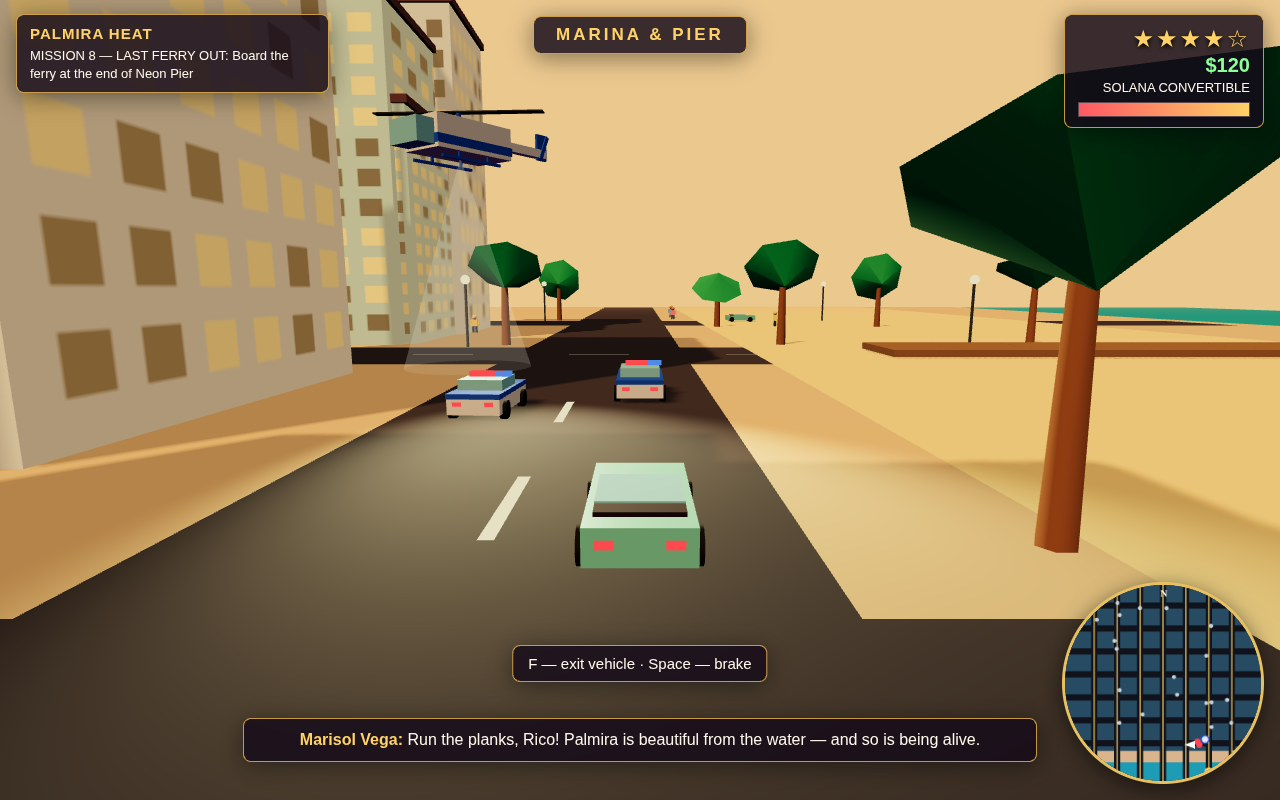
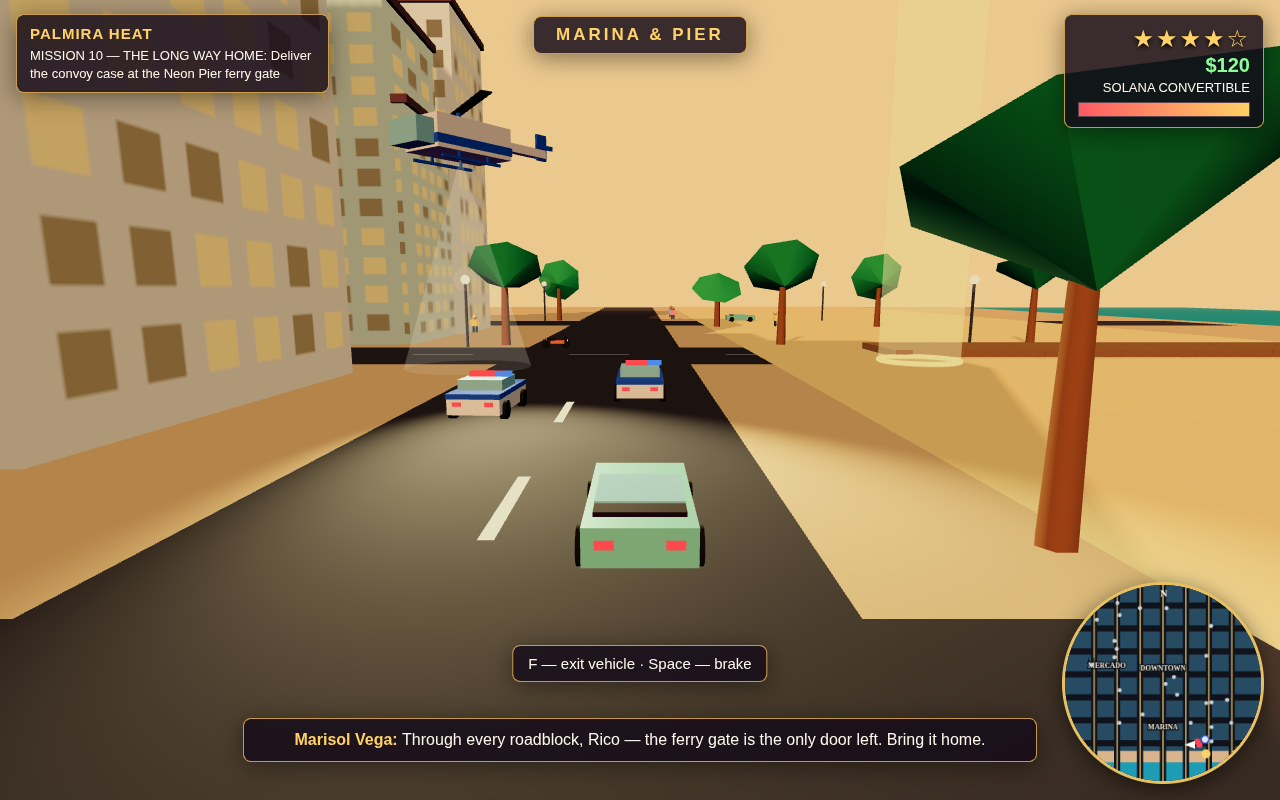
Palmira Heat v3: 10-mission story (chapter two), Vela Moto motorbike, minimap district labels, golden-hour lamp glow, live race screenshot

diff --git a/game/src/shots.js b/game/src/shots.js
@@ -1,9 +1,9 @@
-// Deterministic screenshot scenes (?shot=cover|foot|mission|coast): the game's own code stages
-// real gameplay states — a five-star chase under the helicopter, a Mercado crowd, the ferry
-// finale and a coastal drive across the enlarged city.
+// Deterministic screenshot scenes (?shot=cover|foot|mission|race): the game's own code stages
+// real gameplay states — a five-star chase under the helicopter, a Mercado crowd, the chapter-two
+// convoy finale and a live Marina Loop race moment.
 import { districtAt } from './city.js';
 
-export const SHOT_NAMES = ['cover', 'foot', 'mission', 'coast'];
+export const SHOT_NAMES = ['cover', 'foot', 'mission', 'race'];
 
 export function readShotName(search = window.location.search) {
   const name = new URLSearchParams(search).get('shot');
@@ -39,6 +39,8 @@ export function stageShotScene(name, game) {
     const trafficAhead = game.vehicles.filter((vehicle) => vehicle.mode === 'traffic');
     if (trafficAhead[0]) { trafficAhead[0].position.set(44.9, 0, 6); trafficAhead[0].yaw = 0; trafficAhead[0].updateTransform(); }
     if (trafficAhead[1]) { trafficAhead[1].position.set(51.1, 0, 44); trafficAhead[1].yaw = Math.PI; trafficAhead[1].updateTransform(); }
+    const kerbBike = game.vehicles.find((vehicle) => vehicle.type.bike);
+    if (kerbBike) { kerbBike.position.set(42.8, 0, -8); kerbBike.yaw = 0; kerbBike.updateTransform(); }
     game.hud.showDialogue('Marisol Vega', 'Vince put a price on you, Rico. The last ferry leaves from Neon Pier — MOVE.');
     pinDistrictBanner(game, car.position.x, car.position.z);
     game.hud.freezeOverlays();
@@ -58,6 +60,8 @@ export function stageShotScene(name, game) {
     if (parkedCars[0]) { parkedCars[0].position.set(-101.5, 0, -30); parkedCars[0].yaw = 0; parkedCars[0].updateTransform(); }
     if (parkedCars[1]) { parkedCars[1].position.set(-80, 0, -42.6); parkedCars[1].yaw = Math.PI / 2; parkedCars[1].updateTransform(); }
     if (parkedCars[2]) { parkedCars[2].position.set(-89.5, 0, -14); parkedCars[2].yaw = 0; parkedCars[2].updateTransform(); }
+    const kerbBike = game.vehicles.find((vehicle) => vehicle.type.bike);
+    if (kerbBike) { kerbBike.position.set(-90.8, 0, -26); kerbBike.yaw = 0; kerbBike.updateTransform(); }
     pinDistrictBanner(game, player.position.x, player.position.z);
     game.hud.freezeOverlays();
     return { follow: 'foot', height: 3.4, back: 9.5 };
@@ -66,23 +70,25 @@ export function stageShotScene(name, game) {
     const car = game.vehicles.find((vehicle) => vehicle.type.kind.includes('Convertible')) || game.vehicles[0];
     game.enterVehicle(car, true);
     car.position.set(58, 0, 147.1); car.yaw = Math.PI / 2; car.speed = 14; car.updateTransform();
-    wanted.setStars(4, 'Ferry run');
-    game.missions.missionIndex = 7; game.missions.stepIndex = 1; game.missions.active = true; game.missions.refreshBeacon();
+    wanted.setStars(4, 'Convoy run');
+    game.missions.missionIndex = 9; game.missions.stepIndex = 2; game.missions.active = true; game.missions.refreshBeacon();
     stageCruisers(game, [[76, 147.1, Math.PI / 2], [72, 140.9, Math.PI / 2 - 0.06]]);
     game.airUnit.stageAt(88, 14, 136, -2.2);
-    game.hud.showDialogue('Marisol Vega', 'Run the planks, Rico! Palmira is beautiful from the water — and so is being alive.');
+    game.hud.showDialogue('Marisol Vega', 'Through every roadblock, Rico — the ferry gate is the only door left. Bring it home.');
     pinDistrictBanner(game, car.position.x, car.position.z);
     game.hud.freezeOverlays();
     return { follow: 'car', height: 5, back: 13 };
   }
-  const taxi = game.vehicles.find((vehicle) => vehicle.type.kind.includes('Taxi')) || game.vehicles[1];
-  game.enterVehicle(taxi, true);
-  taxi.position.set(134, 0, 140.9); taxi.yaw = -Math.PI / 2; taxi.speed = 10; taxi.updateTransform();
-  game.missions.missionIndex = 2; game.missions.stepIndex = 1; game.missions.active = true; game.missions.refreshBeacon();
-  const ahead = game.vehicles.find((vehicle) => vehicle.mode === 'traffic' && vehicle !== taxi);
-  if (ahead) { ahead.position.set(98, 0, 147.1); ahead.yaw = -Math.PI / 2; ahead.updateTransform(); }
-  game.hud.showDialogue('Tessa Bloom', 'Coast road at golden hour, Rico. Palmira is showing off again.');
-  pinDistrictBanner(game, taxi.position.x, taxi.position.z);
+  // 'race': a live Marina Loop moment — checkpoint 3 of 8 ahead, timer running, beacon lit.
+  const car = game.vehicles.find((vehicle) => vehicle.type.kind.includes('Coupe')) || game.vehicles[0];
+  game.enterVehicle(car, true);
+  car.position.set(51.1, 0, -56); car.yaw = Math.PI; car.speed = 17; car.updateTransform();
+  game.missions.missionIndex = 6; game.missions.stepIndex = 1; game.missions.active = true; game.missions.refreshBeacon();
+  game.races.stageRace(2, 47.3);
+  const ahead = game.vehicles.find((vehicle) => vehicle.mode === 'traffic' && vehicle !== car);
+  if (ahead) { ahead.position.set(44.9, 0, -80); ahead.yaw = Math.PI; ahead.updateTransform(); }
+  game.hud.showDialogue('Tessa Bloom', 'GO! Chase the cyan, Rico — the loop does not wait.');
+  pinDistrictBanner(game, car.position.x, car.position.z);
   game.hud.freezeOverlays();
-  return { follow: 'car', height: 5.5, back: 13, side: 2.5 };
+  return { follow: 'car', height: 5.5, back: 14 };
 }

diff --git a/game/src/vehicles.js b/game/src/vehicles.js
@@ -1,8 +1,9 @@
-// Vehicle factory and arcade car physics: sedans, taxis, trucks, coupes and police interceptors.
+// Vehicle factory and arcade car physics: sedans, taxis, trucks, coupes, police interceptors and the Vela Moto bike.
 import * as THREE from 'three';
-import { CAR_TYPES, LIMITS, PALETTE } from './config.js';
+import { BIKE_TYPE, CAR_TYPES, LIMITS, PALETTE } from './config.js';
 import { clamp } from './utils.js';
 import { resolveBuildingCollisions } from './city.js';
+import { createPersonMesh } from './pedestrians.js';
 
 const bodyGeometry = new THREE.BoxGeometry(2.05, 0.72, 4.35);
 const cabinGeometry = new THREE.BoxGeometry(1.78, 0.62, 2.05);
@@ -54,8 +55,27 @@ export function createCarMesh(type, isPolice = false) {
   return group;
 }
 
+const bikeWheelGeometry = new THREE.CylinderGeometry(0.34, 0.34, 0.11, 12);
+const bikeFrameMaterial = new THREE.MeshStandardMaterial({ color: 0x24122e, roughness: 0.6, metalness: 0.4 });
+export function createBikeMesh(type) {
+  const group = new THREE.Group();
+  const paint = new THREE.MeshStandardMaterial({ color: type.color, roughness: 0.35, metalness: 0.3 });
+  addBox(group, new THREE.BoxGeometry(0.3, 0.26, 1.15), paint, 0, 0.58, 0.12);
+  addBox(group, new THREE.BoxGeometry(0.34, 0.2, 0.72), bikeFrameMaterial, 0, 0.8, -0.42);
+  addBox(group, new THREE.BoxGeometry(0.12, 0.62, 0.14), bikeFrameMaterial, 0, 0.62, 0.86).rotation.x = -0.28;
+  addBox(group, new THREE.BoxGeometry(0.58, 0.07, 0.09), bikeFrameMaterial, 0, 0.98, 0.8);
+  addBox(group, new THREE.BoxGeometry(0.3, 0.14, 0.06), lightMaterial, 0, 0.72, 0.97);
+  addBox(group, new THREE.BoxGeometry(0.26, 0.1, 0.05), tailMaterial, 0, 0.78, -0.82);
+  for (const z of [0.82, -0.82]) {
+    const wheel = new THREE.Mesh(bikeWheelGeometry, wheelMaterial); wheel.rotation.z = Math.PI / 2; wheel.position.set(0, 0.34, z); wheel.castShadow = true; group.add(wheel);
+  }
+  const rider = createPersonMesh(0xff8c42, 0xe0ac69);
+  rider.name = 'rider'; rider.position.set(0, 0.44, -0.18); rider.visible = false; group.add(rider);
+  return group;
+}
+
 export function makeVehicle(scene, type, position, yaw, mode) {
-  const mesh = createCarMesh(type, mode === 'police');
+  const mesh = type.bike ? createBikeMesh(type) : createCarMesh(type, mode === 'police');
   mesh.position.copy(position); mesh.rotation.y = yaw; scene.add(mesh);
   return {
     type, mesh, mode, position: mesh.position, yaw, speed: 0, steering: 0,
@@ -86,6 +106,9 @@ export function spawnVehicleFleet(scene, random, roads) {
     const position = horizontal ? new THREE.Vector3(along, 0, road + side) : new THREE.Vector3(road + side, 0, along);
     vehicles.push(makeVehicle(scene, type, position, horizontal ? Math.PI / 2 : 0, 'parked'));
   }
+  // Vela Moto bikes wait at the kerb near the places Rico works: Mercado, the race start, the marina, Downtown.
+  const bikeSpots = [[-101.4, -36, 0], [58, 101.4, Math.PI / 2], [101.4, 140, 0], [5.4, 20, 0], [-149.4, -20, 0]];
+  for (const [x, z, yaw] of bikeSpots) vehicles.push(makeVehicle(scene, BIKE_TYPE, new THREE.Vector3(x, 0, z), yaw, 'parked'));
   return vehicles;
 }
 export function driveVehiclePhysics(vehicle, throttle, steeringInput, brake, delta, colliders) {
@@ -97,11 +120,12 @@ export function driveVehiclePhysics(vehicle, throttle, steeringInput, brake, del
   vehicle.speed = clamp(vehicle.speed, -maxReverse, maxForward);
   vehicle.steering = clamp(steeringInput, -1, 1);
   const speedRatio = vehicle.speed / maxForward;
-  vehicle.yaw += vehicle.steering * delta * 1.55 * Math.sign(vehicle.speed || 1) * Math.min(1, Math.abs(speedRatio) + 0.22);
+  const turnRate = vehicle.type.bike ? 2.15 : 1.55;
+  vehicle.yaw += vehicle.steering * delta * turnRate * Math.sign(vehicle.speed || 1) * Math.min(1, Math.abs(speedRatio) + 0.22);
   const beforeX = vehicle.position.x; const beforeZ = vehicle.position.z;
   vehicle.position.x += Math.sin(vehicle.yaw) * vehicle.speed * delta;
   vehicle.position.z += Math.cos(vehicle.yaw) * vehicle.speed * delta;
-  resolveBuildingCollisions(vehicle.position, 2.35, colliders);
+  resolveBuildingCollisions(vehicle.position, vehicle.type.bike ? 1.15 : 2.35, colliders);
   const impact = Math.hypot(vehicle.position.x - beforeX, vehicle.position.z - beforeZ) < Math.abs(vehicle.speed * delta) * 0.42 && Math.abs(vehicle.speed) > 7;
   if (impact) { vehicle.health = Math.max(0, vehicle.health - Math.abs(vehicle.speed) * 0.65); vehicle.speed *= -0.22; }
   vehicle.updateTransform();

diff --git a/game/src/missions.js b/game/src/missions.js
@@ -60,6 +60,24 @@ export const STORY_MISSIONS = [
       { kind: 'goto', target: { x: 96, z: 204 }, text: 'Board the ferry at the end of Neon Pier', speaker: CAST.fixer, line: 'Run the planks, Rico! Palmira is beautiful from the water — and so is being alive.' },
     ],
   },
+  // Chapter two: the ferry brought Rico home, and Palmira was not done with him.
+  {
+    title: 'Back on the Sand', reward: 1150,
+    steps: [
+      { kind: 'goto', target: { x: 54, z: 42 }, text: `Meet ${CAST.fixer} outside Café Sol — she kept your cut warm`, speaker: CAST.fixer, line: 'Look who the ferry brought back. Palmira missed you for exactly one tide, Rico — Ivo has a crate that cannot wait for customs, and neither can I.' },
+      { kind: 'goto', target: { x: 104, z: 148 }, text: `Collect Captain ${CAST.harborMaster}'s rush crate at the marina warehouse — the tide window is closing`, speaker: CAST.harborMaster, line: 'Fast hands, Rico. This crate rides the next tide or it rots on my dock — and Marisol does not pay for rotten.' },
+      { kind: 'goto', target: { x: -138, z: 96 }, text: `Rush the crate to ${CAST.mechanic}'s yard before the tide window closes`, speaker: CAST.mechanic, line: 'Whatever is in that crate hums through the cardboard, Rico. Bring it to my yard quick and do not let the PD get curious.', crime: 2 },
+    ],
+  },
+  {
+    title: 'The Long Way Home', reward: 1400,
+    steps: [
+      { kind: 'goto', target: { x: -90, z: -42 }, text: `Collect the convoy case from ${CAST.courierBoss} at Solstice Garage`, speaker: CAST.courierBoss, line: 'One last convoy run, Rico — everything Palmira owes us, in one case. The whole city will try to stop you carrying it home.' },
+      { kind: 'goto', target: { x: -96, z: 0 }, text: 'Run the convoy through the Mercado — roadblocks are up and the helicopter is awake', speaker: CAST.fixer, line: 'They have sealed the old town with roadblocks and put the bird in the sky. Thread it anyway, Rico — you know every lane.', crime: 4 },
+      { kind: 'goto', target: { x: 90, z: 166 }, text: 'Deliver the convoy case at the Neon Pier ferry gate', speaker: CAST.fixer, line: 'Through every roadblock, Rico — the ferry gate is the only door left. Bring it home.' },
+      { kind: 'goto', target: { x: 96, z: 204 }, text: 'End of the line — board the ferry with the case', speaker: CAST.fixer, line: 'That is the whole city in one case, Rico. Whatever Palmira becomes next, it starts with us on this water.' },
+    ],
+  },
 ];
 
 export function createMissionSystem(scene, hooks) {

diff --git a/game/src/city.js b/game/src/city.js
@@ -37,8 +37,8 @@ export function buildCity(scene) {
   const city = new THREE.Group(); scene.add(city);
   scene.fog = new THREE.Fog(PALETTE.fog, 110, 380);
   const hemi = new THREE.HemisphereLight(0xffe0b3, 0x51365e, 1.55); scene.add(hemi);
-  const sun = new THREE.DirectionalLight(0xffc37a, 2.4);
-  sun.position.set(-90, 120, -70); sun.castShadow = true;
+  const sun = new THREE.DirectionalLight(0xffb877, 2.4);
+  sun.position.set(-150, 80, -64); sun.castShadow = true;
   sun.shadow.mapSize.set(2048, 2048);
   sun.shadow.camera.left = -205; sun.shadow.camera.right = 205; sun.shadow.camera.top = 205; sun.shadow.camera.bottom = -205;
   sun.shadow.camera.far = 460; sun.shadow.bias = -0.0004; scene.add(sun);
@@ -125,14 +125,17 @@ export function buildCity(scene) {
   const lampHeads = new THREE.SphereGeometry(0.42, 8, 6);
   const lamps = new THREE.InstancedMesh(lampGeometry, new THREE.MeshStandardMaterial({ color: 0x39404f }), 130);
   const heads = new THREE.InstancedMesh(lampHeads, new THREE.MeshBasicMaterial({ color: 0xffe6a3 }), 130);
+  // A soft additive halo around every lamp head sells the golden-hour glow for the price of one instanced mesh.
+  const glows = new THREE.InstancedMesh(new THREE.SphereGeometry(1.05, 8, 6), new THREE.MeshBasicMaterial({ color: 0xffbe78, transparent: true, opacity: 0.15, depthWrite: false }), 130);
   let lampIndex = 0;
   for (const road of WORLD.roadCoordinates) for (let p = -176; p <= 176; p += 44) {
     if (lampIndex >= 128) break;
     matrix.compose(new THREE.Vector3(road + 7.4, 2.8, p), new THREE.Quaternion(), new THREE.Vector3(1, 1, 1)); lamps.setMatrixAt(lampIndex, matrix);
     matrix.compose(new THREE.Vector3(road + 7.4, 5.8, p), new THREE.Quaternion(), new THREE.Vector3(1, 1, 1)); heads.setMatrixAt(lampIndex, matrix);
+    glows.setMatrixAt(lampIndex, matrix);
     lampIndex += 1;
   }
-  lamps.count = lampIndex; heads.count = lampIndex; city.add(lamps, heads);
+  lamps.count = lampIndex; heads.count = lampIndex; glows.count = lampIndex; city.add(lamps, heads, glows);
 
   const sand = new THREE.Mesh(new THREE.PlaneGeometry(470, 52), new THREE.MeshStandardMaterial({ color: PALETTE.sand, roughness: 1 }));
   sand.rotation.x = -Math.PI / 2; sand.position.set(0, 0.04, WORLD.coastZ + 22); sand.receiveShadow = true; city.add(sand);

diff --git a/game/src/hud.js b/game/src/hud.js
@@ -28,6 +28,12 @@ export function createHud() {
     }
     pen.strokeStyle = '#ffd166'; pen.lineWidth = 1.2;
     for (const coordinate of WORLD.roadCoordinates) { const [x] = worldToMap(coordinate, 0); pen.beginPath(); pen.moveTo(x, 0); pen.lineTo(x, height); pen.stroke(); }
+    pen.font = 'bold 8px Verdana'; pen.textAlign = 'center'; pen.lineWidth = 2.6; pen.strokeStyle = 'rgba(10,15,24,0.88)'; pen.fillStyle = 'rgba(255,240,214,0.94)';
+    const districtLabel = (text, x, z) => { const [mx, my] = worldToMap(x, z); pen.strokeText(text, mx, my); pen.fillText(text, mx, my); };
+    districtLabel('DOWNTOWN', 0, -8);
+    districtLabel('MERCADO', -117, -14);
+    districtLabel('MARINA', 0, 114);
+    pen.textAlign = 'left';
     const blip = (position, color, radius = 3.4) => { const [x, y] = worldToMap(position.x, position.z); pen.fillStyle = color; pen.beginPath(); pen.arc(x, y, radius, 0, Math.PI * 2); pen.fill(); };
     for (const vehicle of state.vehicles) if (vehicle.mode === 'parked') blip(vehicle.position, '#c8d2dc', 2.2);
     for (const cruiser of state.police) if (cruiser.active) blip(cruiser.position, Math.floor(performance.now() / 300) % 2 ? '#ff4455' : '#4488ff', 3.6);

diff --git a/game/src/main.js b/game/src/main.js
@@ -58,11 +58,13 @@ const game = {
       hud.showDialogue('Driver', 'Hey! That is my car! Somebody call Palmira PD!');
     } else if (vehicle.mode === 'parked' && !silent) wanted.commitCrime(9, 'Parked car stolen');
     vehicle.mode = 'player'; vehicle.driver = 'player'; vehicle.occupied = true;
+    const rider = vehicle.mesh.getObjectByName('rider'); if (rider) rider.visible = true;
     player.mode = 'car'; player.vehicle = vehicle; player.mesh.visible = false;
     if (!silent) audio.click();
   },
   exitVehicle() {
     const vehicle = player.vehicle; if (!vehicle) return;
+    const rider = vehicle.mesh.getObjectByName('rider'); if (rider) rider.visible = false;
     vehicle.mode = 'parked'; vehicle.driver = null; vehicle.speed = 0;
     player.mode = 'foot'; player.vehicle = null; player.mesh.visible = true;
     player.position.set(vehicle.position.x + 2.4, 0, vehicle.position.z + 0.5);

diff --git a/main.ts b/main.ts
@@ -4,8 +4,8 @@
 // in. It copies game/ and screenshots/ from beside this file to /output and writes
 // /output/dossier.json, the summary the judge reads, with the vendored make.fun library.
 // Palmira Heat is an original open-world crime game: a sun-soaked procedural city of three
-// districts, traffic and pedestrians, stealable cars, a five-star wanted system with pursuing
-// police, roadblocks and a searchlight helicopter, an eight-mission story, pistol combat,
+// districts, traffic and pedestrians, stealable cars and a motorbike, a five-star wanted system with pursuing
+// police, roadblocks and a searchlight helicopter, a ten-mission story, pistol combat,
 // taxi fares, checkpoint street races, a HUD with a minimap, synthesized sound and local saves.
 //
 // Serve it locally with `node serve.ts`, then open http://localhost:8080.

diff --git a/game/src/races.js b/game/src/races.js
@@ -44,6 +44,11 @@ export function createRaceSystem(scene, hooks) {
       return true;
     },
     consumeMissionFinish() { const done = this.missionFinishedFlag; this.missionFinishedFlag = false; return done; },
+    // Screenshot staging only: freeze a live mid-race state (beacon lit, timer running) without a countdown.
+    stageRace(checkpointIndex, raceTime) {
+      this.phase = 'running'; this.checkpointIndex = checkpointIndex; this.raceTime = raceTime; this.missionRace = false;
+      moveBeacon(RACE_CHECKPOINTS[checkpointIndex]);
+    },
     finishRace() {
       const time = this.raceTime;
       const prize = Math.max(150, Math.round(640 - time * 3.2));

diff --git a/game/src/config.js b/game/src/config.js
@@ -40,4 +40,6 @@ export const CAR_TYPES = [
   { kind: 'Brisa Pickup', color: 0xe2725b, speed: 25, acceleration: 13 },
   { kind: 'Solana Convertible', color: 0x7ee0d2, speed: 33, acceleration: 20 },
 ];
+// The motorbike is a separate type on purpose: it joins the parked fleet only, never the traffic mix.
+export const BIKE_TYPE = { kind: 'Vela Moto', color: 0xff7847, speed: 34, acceleration: 24, bike: true };
 export const LIMITS = { trafficCars: 28, parkedCars: 20, pedestrians: 55, policeCars: 5 };

diff --git a/README.md b/README.md
@@ -6,7 +6,7 @@
 
 An original open-world crime game for the make.fun **gta6-01** ("Make GTA 6") bounty. Everything in Palmira is invented for this entry — the city, characters, vehicles, names, story, art and synthesized sound. No Rockstar Games material is used.
 
-**Story.** Rico Marín, a smiling courier in the sun-soaked beach city of Palmira, takes one favor too many from fixer Marisol Vega and courier boss Dario Sol. A sealed case, a pier owned by rival Vince Corallo, a harbor strongbox that customs never stamped, a street-racing crown, and a last ferry out: eight story missions carry Rico from first favor to the Neon Pier finale.
+**Story.** Rico Marín, a smiling courier in the sun-soaked beach city of Palmira, takes one favor too many from fixer Marisol Vega and courier boss Dario Sol. A sealed case, a pier owned by rival Vince Corallo, a harbor strongbox that customs never stamped, a street-racing crown, and a last ferry out: eight story missions carry Rico from first favor to the Neon Pier finale — and a two-mission second chapter (a rush crate off the harbor, then one final convoy run through roadblocks under the helicopter) brings him home again, ten missions in all.
 
 ## Play it
 
@@ -32,14 +32,14 @@ Open the page in a desktop browser. The game is static files only and makes no n
 ## Systems
 
 - **Procedural 3D city** — a 7×7 road grid with intersections and lane markings across three named districts (Downtown Palmira's glass towers, the Mercado old town's terracotta lanes, the Marina & Pier quarter), varied window-lit buildings, 18 shop signs, palms, lamps, crates, a beach, animated ocean, a wooden pier and the Palmira ferry, all in golden-hour light with fog and shadows. A banner names each district as you enter it.
-- **On foot and by car** — third-person character control, sprinting, arcade vehicle physics, chase cameras, collision and damage smoke. Seven vehicle types: sedan, taxi, truck, coupe, wagon, pickup and convertible.
+- **On foot and by car** — third-person character control, sprinting, arcade vehicle physics, chase cameras, collision and damage smoke. Eight vehicle types: sedan, taxi, truck, coupe, wagon, pickup, convertible and the nimble Vela Moto motorbike, rider figure and all.
 - **Traffic and pedestrians** — 28 lane-following traffic cars that pause and turn at intersections, 55 sidewalk pedestrians who flee gunfire and danger.
 - **Stealing** — take parked cars or pull up beside traffic and take the wheel; the driver jumps out and calls Palmira PD.
 - **Wanted system and police** — one to five stars for theft, collisions, pedestrian hits and gunfire; interceptors spawn, pursue and ram; at three stars dispatch stages **roadblocks** across your road; at four stars a **police helicopter** joins with a searchlight that keeps eyes on you from the sky; break line of sight — ground and air — to cool down; get **BUSTED** if boxed in at low speed, **WASTED** if your health runs out.
 - **Combat** — hitscan pistol with magazine and reserve ammo, reloads, muzzle flash, hit reactions and rival return fire in the showdown.
-- **Missions and story** — eight sequential missions (favors, a hot package, a cool-down, a pier showdown, a clean getaway, a harbor heist, a street-racing crown and a ferry finale) with beacons, objective text, named dialogue, cash rewards and mission-complete screens, plus repeatable taxi fares that pay by distance.
+- **Missions and story** — ten sequential missions (favors, a hot package, a cool-down, a pier showdown, a clean getaway, a harbor heist, a street-racing crown, a ferry finale, a back-on-the-sand reunion and a final convoy run) with beacons, objective text, named dialogue, cash rewards and mission-complete screens, plus repeatable taxi fares that pay by distance.
 - **Street races** — the Marina Loop: a repeatable checkpoint race through the whole city grid, started from the gold ring at the marina junction, with cyan checkpoint beacons, a live timer, cash prizes scaled by time and a best time kept in your save.
-- **HUD and minimap** — health, cash, weapon, wanted stars, objective and prompts, district banners, race timer, and a live circular radar with roads, the coast, police, the helicopter, enemies, parked cars and the objective blip.
+- **HUD and minimap** — health, cash, weapon, wanted stars, objective and prompts, district banners, race timer, and a live circular radar with roads, the coast, the three district names lettered on the map, police, the helicopter, enemies, parked cars and the objective blip.
 - **Start, pause and save** — title screen with the story premise and controls, New Game / Continue, pause menu, and localStorage saves of cash, story progress and position.
 - **Sound** — fully synthesized WebAudio: engine hum tied to speed, police sirens, gunshots, crashes, UI clicks and a warm ambient music loop. No audio files.
 
